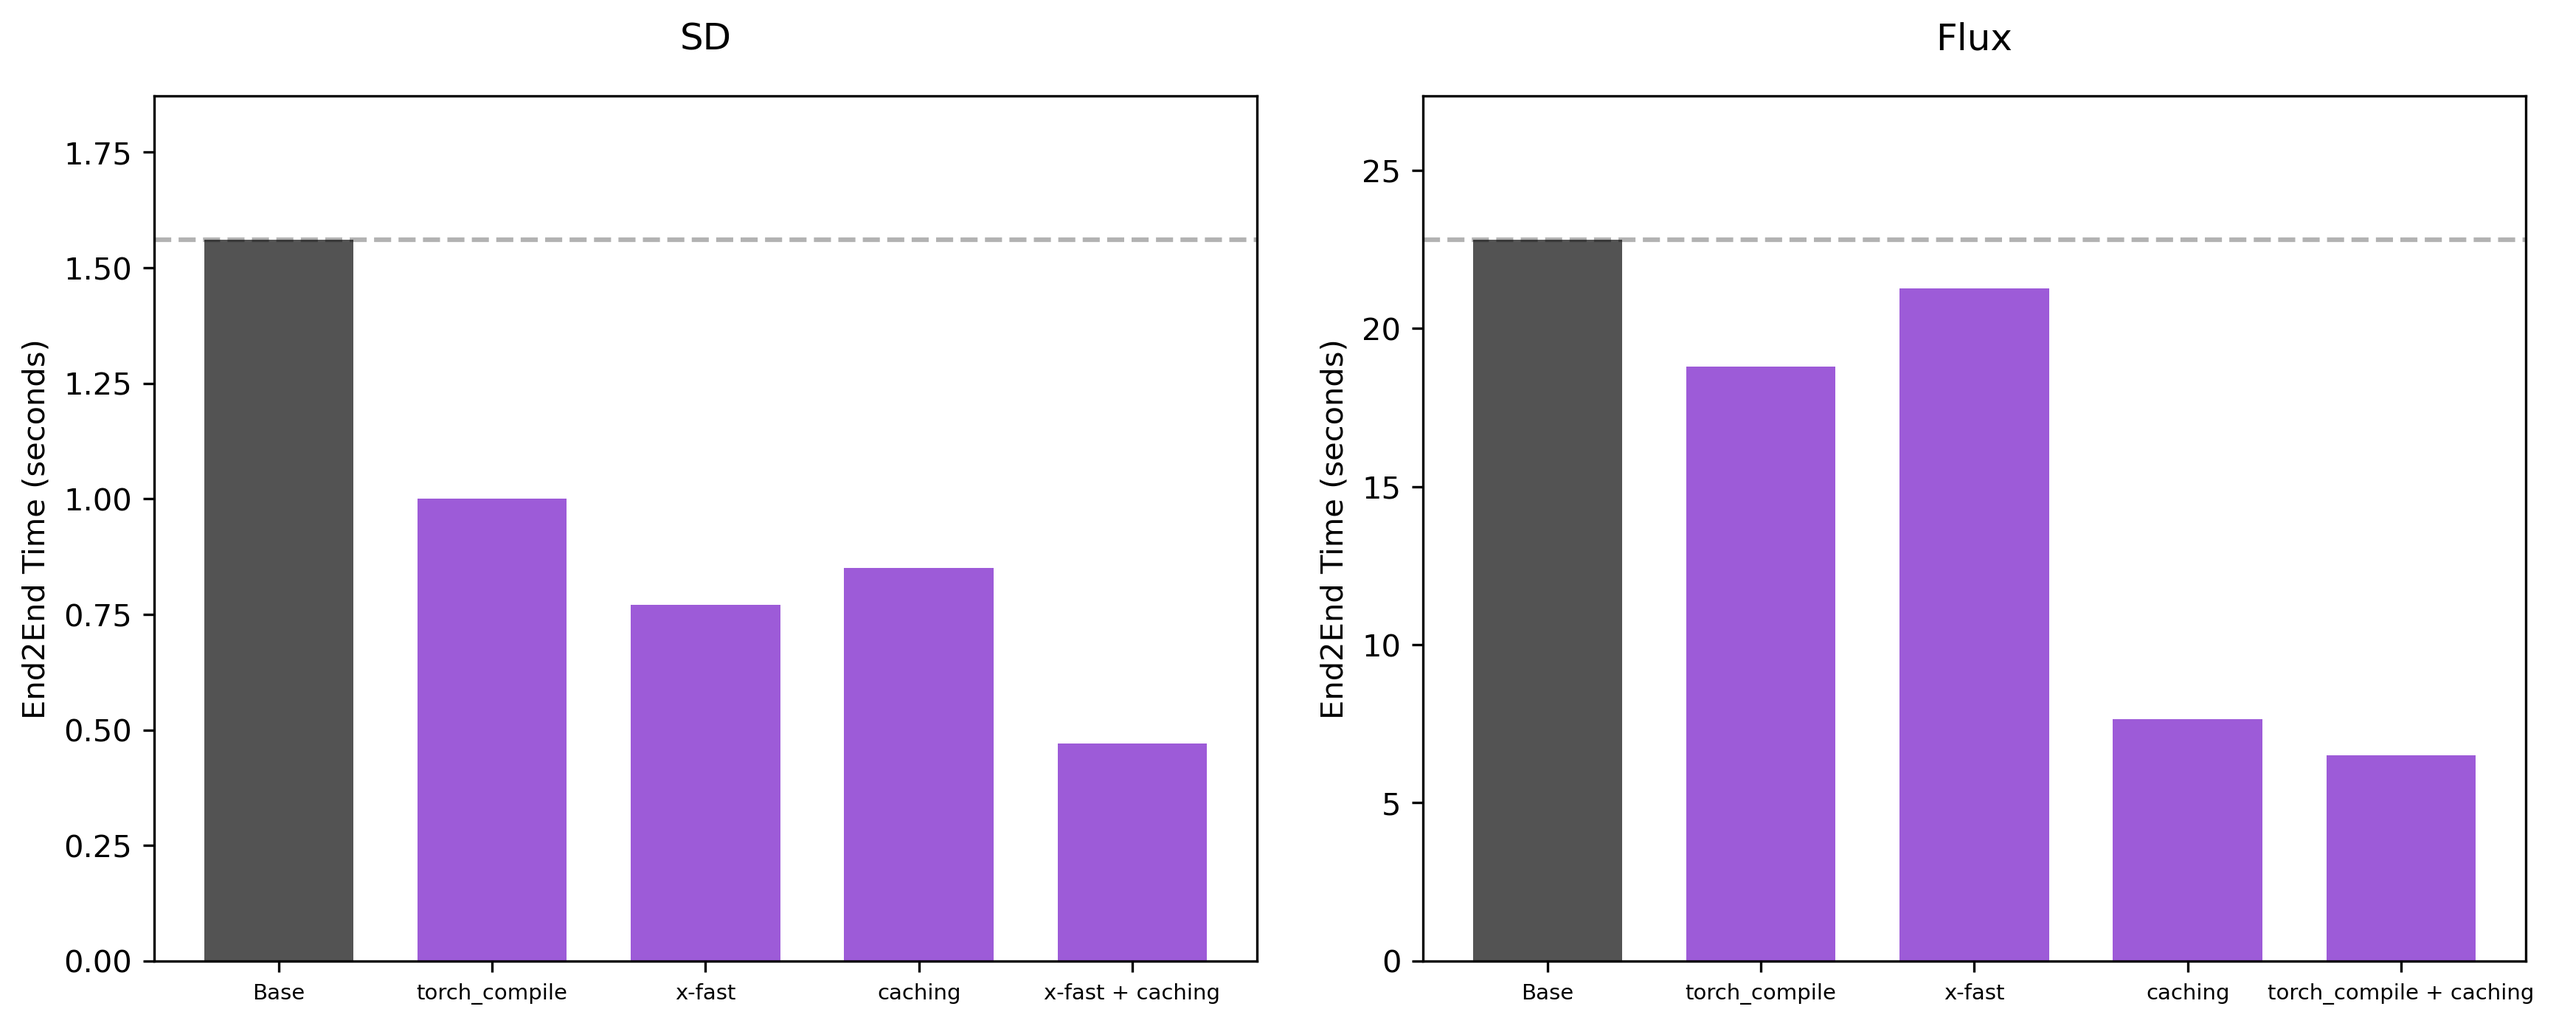
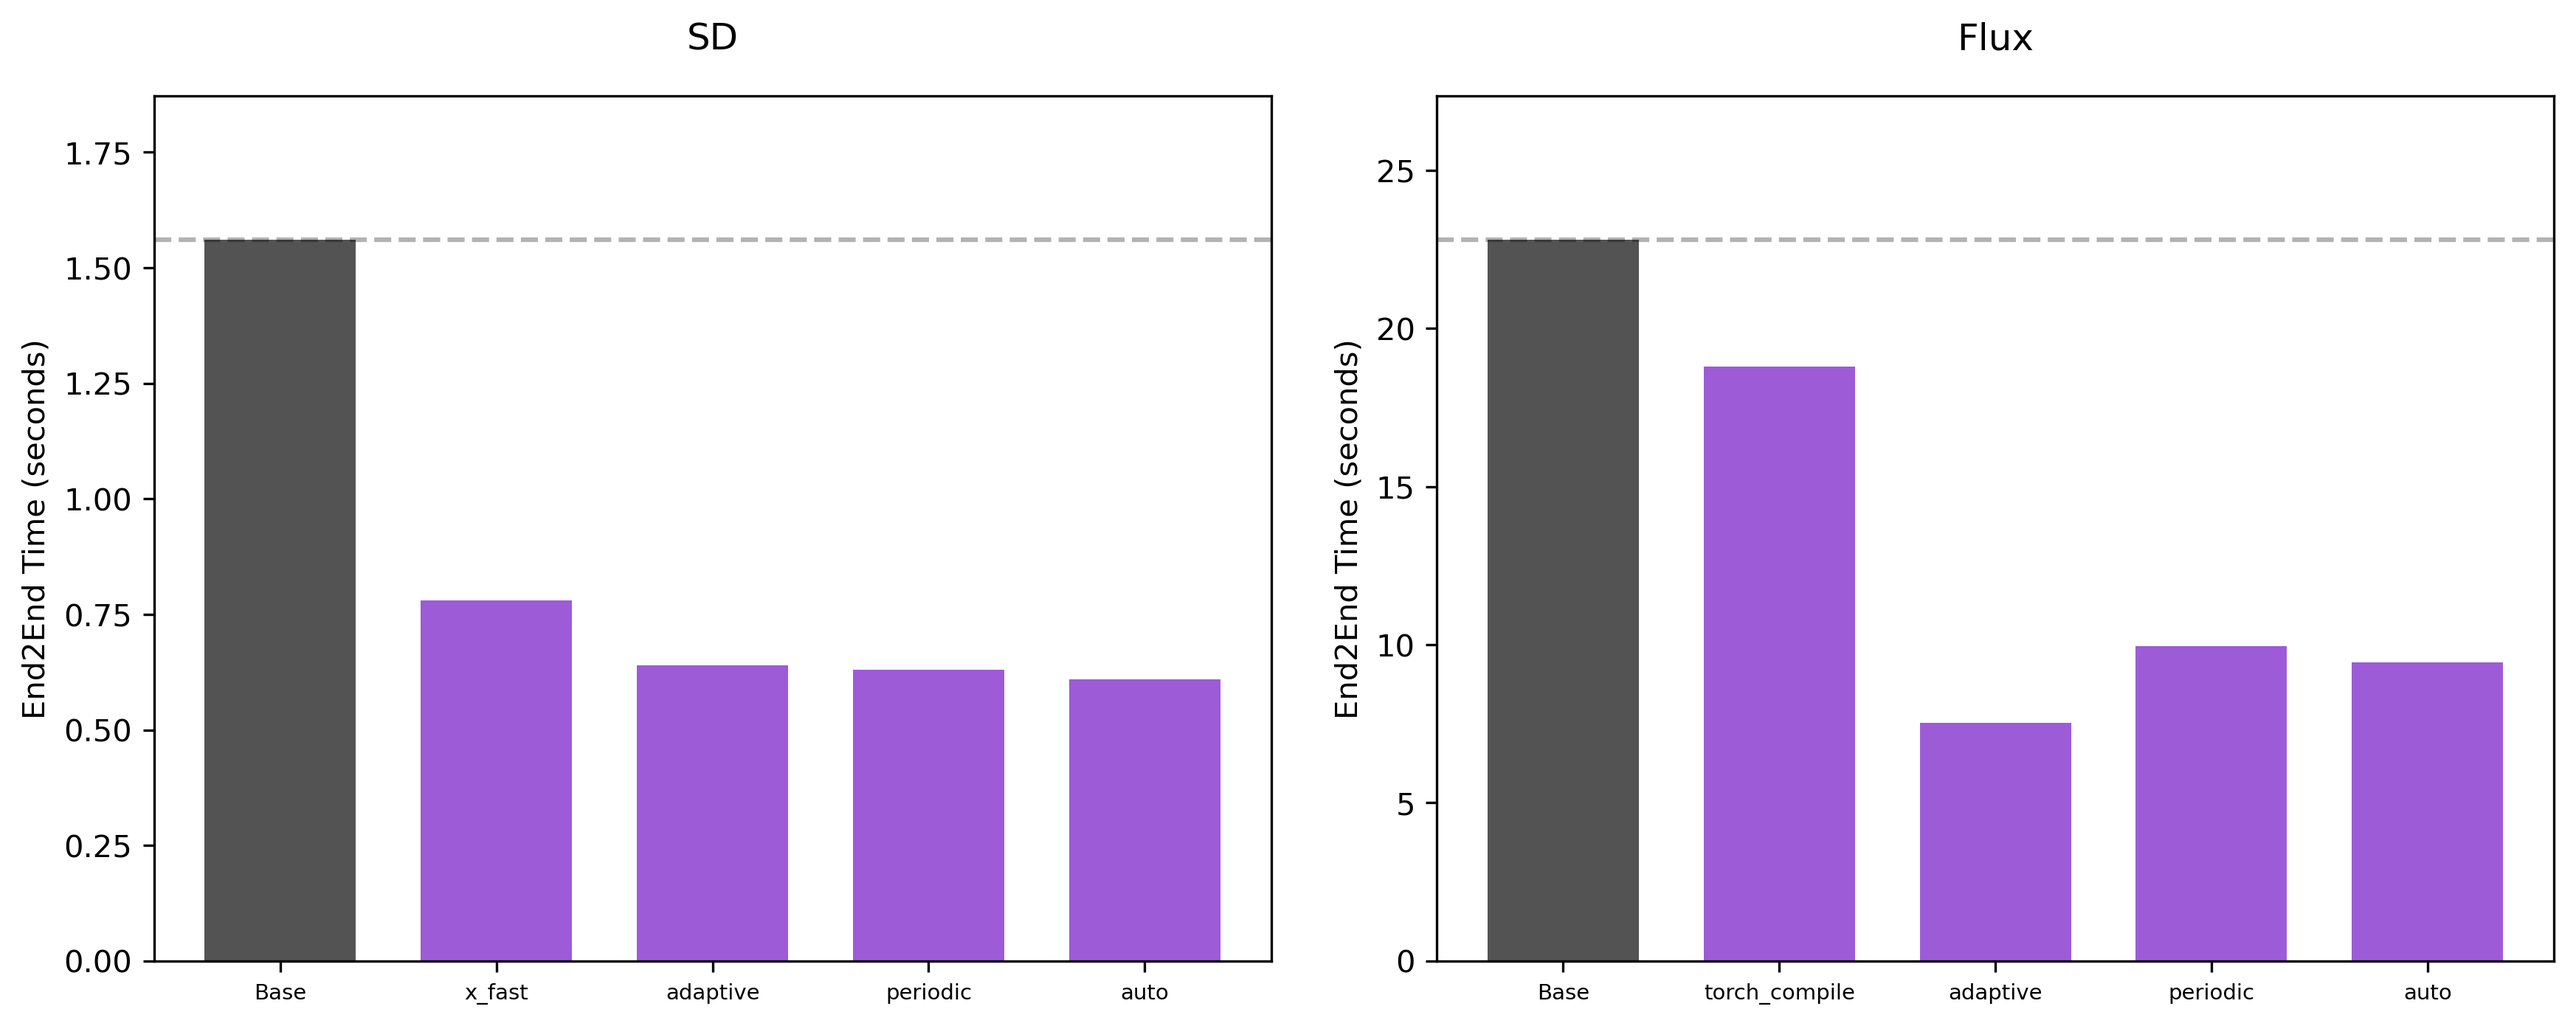
docs: update workflows,figures and performance metrics

diff --git a/cache_nodes.py b/cache_nodes.py
@@ -75,7 +75,7 @@ class CacheModelAdaptive(CacheModelMixin):
                     "STRING",
                     {
                         "default": "torch_compile",
-                        "options": ["torch_compile", "stable_fast", "none"],
+                        "options": ["torch_compile", "none"],
                     },
                 ),
             }
@@ -120,7 +120,7 @@ class CacheModelPeriodic(CacheModelMixin):
                     "STRING",
                     {
                         "default": "torch_compile",
-                        "options": ["torch_compile", "stable_fast", "none"],
+                        "options": ["torch_compile", "none"],
                     },
                 ),
             }
@@ -154,17 +154,17 @@ class CacheModelAuto(CacheModelMixin):
         return {
             "required": {
                 "model": ("MODEL",),
-                "compiler": (
-                    "STRING",
-                    {
-                        "default": "torch_compile",
-                        "options": ["torch_compile", "stable_fast", "none"],
-                    },
-                ),
                 "speed_factor": ("FLOAT", {"default": 0.5, "min": 0.0, "max": 1.0}),
                 "cache_mode": (
                     "STRING",
                     {"default": "default", "options": ["default", "taylor"]},
+                ),
+                "compiler": (
+                    "STRING",
+                    {
+                        "default": "torch_compile",
+                        "options": ["torch_compile", "none"],
+                    },
                 ),
             }
         }

diff --git a/README.md b/README.md
@@ -1,16 +1,17 @@
 # Pruna nodes for ComfyUI
 
 This repository explains how to accelerate image generation in ComfyUI using **Pruna**, an inference optimization engine that makes AI models **faster, smaller, cheaper, and greener**. ComfyUI is a popular node-based GUI for image generation models, for which we provide the following nodes:
-- a **compilation node**, that optimizes inference speed through model compilation. This does not compromise output quality at all, but it doesn't provide huge speedups.
-- **caching nodes** that smartly reuse intermediate computations to accelerate inference with minimal quality degradation. In particular, we provide three caching nodes, which use different caching strategies:
-    - [Adaptive Caching](https://docs.pruna.ai/en/stable/compression.html#adaptive-pro)
-    - [Periodic Caching](https://docs.pruna.ai/en/stable/compression.html#periodic-pro)
-    - [Auto Caching](https://docs.pruna.ai/en/stable/compression.html#auto-pro)
+- a **compilation node**, that optimizes inference speed through model compilation. While this technique fully preserves output quality, performance gains can vary depending on the model.
+- **Caching nodes** that smartly reuse intermediate computations to accelerate inference with minimal quality degradation. In particular, we provide three caching nodes, each one using a different caching strategy:
+    - [Adaptive Caching](https://docs.pruna.ai/en/stable/compression.html#adaptive-pro): Dynamically adjusts caching for each prompt by identifying the optimal inference steps to reuse cached outputs.
+    - [Periodic Caching](https://docs.pruna.ai/en/stable/compression.html#periodic-pro): Caches model outputs at fixed intervals, reusing them in subsequent steps to reduce computation.
+    - [Auto Caching](https://docs.pruna.ai/en/stable/compression.html#auto-pro): Automatically determines the optimal caching schedule to achieve a target latency reduction with minimal quality trade-off.
+  By adjusting the hyperparameters of these nodes, you can achieve the best trade-off between speed and output quality for your specific use case.
 
-All of them can be applied to **Stable Diffusion (SD)** and **Flux** models. 
+Our nodes support both **Stable Diffusion (SD)** and **Flux** models. 
 
 
-Here, you'll find:
+In this repository, you'll find:
 - [Installation and usage instructions](#installation)
 - [Representative workflows](#usage)
 - [Performance benchmarks](#performance)
@@ -18,6 +19,8 @@ Here, you'll find:
 ## Installation
 
 ### Prerequisites
+Currently, running our nodes requires a **Linux system with a GPU**. To setup your environment, follow the steps below: 
+
 1. Create a conda environment
 2. Install [ComfyUI](https://github.com/comfyanonymous/ComfyUI/?tab=readme-ov-file#installing)
 3. Install the latest version of [Pruna or Pruna Pro](https://docs.pruna.ai/en/stable/setup/pip.html): 
@@ -32,11 +35,11 @@ Here, you'll find:
   ```
 
 **To use Pruna Pro**, you also need to: 
-1. [Request a token](https://docs.pruna.ai/en/stable/setup/pip.html#installing-pruna-pro), and export it as an environment variable:
+1. Export your Pruna token as an environment variable:
 ```bash
 export PRUNA_TOKEN=<your_token_here>
 ```
-2. [*Optional*] If you want to use the `x-fast` or `stable-fast` compilers, you need to install additional dependencies:
+2. [*Optional*] If you want to use the the `x-fast` compiler, you need to install additional dependencies:
 ```bash
 pip install pruna[stable-fast]==0.2.2
 ``` 
@@ -61,8 +64,7 @@ cd <path_to_comfyui> && python main.py --disable-cuda-malloc --gpu-only
 The Pruna nodes will appear in the nodes menu in the `Pruna` category. 
 
 **Important note**: To use compilation (either in the `Pruna compile` node or in the caching nodes), you need to launch ComfyUI with the `--disable-cuda-malloc` flag; 
-otherwise the node may not function properly. For optimal performance, we also recommend setting the 
-`--gpu-only` flag. 
+otherwise the node may not function properly. For optimal performance, we also recommend setting the `--gpu-only` flag. 
 
 ## Usage 
 
@@ -135,20 +137,23 @@ We currently support two compilation modes: `x_fast` and `torch_compile`, with `
 
 #### Caching nodes
 
-We offer three caching nodes, which use different caching strategies. For more details on the caching algorithms, see the [Pruna documentation](https://docs.pruna.ai/en/stable/compression.html#adaptive-pro). Below, we summarize the hyperparameters for each node. Note that in each node, you can also specify the `compiler` parameter, which allows you to **apply compilation on top of caching**. Available options are `torch_compile`, `stable_fast`, and `none`.
+We offer three caching nodes, which use different caching strategies. For more details on the caching algorithms, see the [Pruna documentation](https://docs.pruna.ai/en/stable/compression.html#adaptive-pro). All caching nodes share two parameters: 
+
+- **`compiler`**: Which compiler to apply on top of caching, `torch_compile` or `none`. 
+- **`cache_mode`**: Which caching mode to use, `default` or `taylor`. `Default` reuses previous steps, while `taylor` uses a Taylor expansion for more accurate approximation. 
+
+In the following, we summarize the node-specific parameters.
 
 - **Adaptive Caching**: This node uses the `adaptive` algorithm, which allows you to adjust the `threshold` and `max_skip_steps` parameters:
   - **`threshold`**: How much the difference between the current and previous latent can be before caching. Higher is faster, but reduces quality. Acceptable values range from `0.001` to `0.2`. Default value: `0.01`. 
   - **`max_skip_steps`**: How many steps are allowed to be skipped in a row. Higher is faster, but reduces quality. Acceptable values range from `1` to `5`. Default value: `4`. 
   
-- **Periodic Caching**: This node uses the `periodic` algorithm, which allows you to adjust the `cache_interval`, `start_step`, `cache_mode`, and `compiler` parameters:
-  - **`cache_interval`**: How many model steps to skip in a row. Higher is faster, but reduces quality. Acceptable values range from `1` to `7`. Default value: `2`. 
+- **Periodic Caching**: This node uses the `periodic` algorithm, which allows you to adjust the `cache_interval` and `start_step` parameters:
+  - **`cache_interval`**: Specifies how often to compute and cache the model output. Acceptable values range from `1` to `7`. Default value: `2`. 
   - **`start_step`**: How many steps to wait before starting to cache. Acceptable values range from `0` to `10`. Default value: `2`. 
-  - **`cache_mode`**: Which caching mode to use, `default` or `taylor`. `Default` reuses previous steps, while `taylor` uses a Taylor expansion for more accurate approximation. 
   
-- **Auto Caching**: This node uses the `auto` algorithm, which allows you to adjust the `speed_factor` and `cache_mode` parameters:
+- **Auto Caching**: This node uses the `auto` algorithm, which allows you to adjust the `speed_factor` parameter:
   - **`speed_factor`**: Controls inference latency. Lower values yield faster inference but may compromise quality. Acceptable values range from `0.0` to `1.0`. Default value: `0.5`. 
-  - **`cache_mode`**: Which caching mode to use, `default` or `taylor`. `Default` reuses previous steps, while `taylor` uses a Taylor expansion for more accurate approximation. 
   
 > **Note**: Caching and `x_fast` compilation require access to the Pruna Pro version.
 
@@ -166,16 +171,15 @@ using 28 steps. We compare the iterations per second (as reported by `ComfyUI`) 
 ![Performance](./images/its_comparison_50.png)
 ![Performance](./images/end2end_time_comparison_50.png)
 
-**Hyperparameters**: For caching, we use the default hyperparameters, which are `threshold = 0.01` and `max_skip_steps = 4`.
 
 ### 28 steps 
 
 ![Performance](./images/its_comparison_28.png)
 ![Performance](./images/end2end_time_comparison_28.png)
 
-**Hyperparameters**: For the SD model, when the number of denoising steps is small, the caching node with the 
-default hyperparameters tends to not provide substantial speedups. For that reason, here, only for 
-the SD model, we set the threshold to `0.02`. 
+**Hyperparameters**: For caching, we used the `taylor` mode and the `torch_compile` compiler, along with the default hyperparameters. 
+
+Note that for Stable Diffusion models, `x_fast` typically delivers better performance than `torch_compile`, whereas for Flux models, `torch_compile` tends to outperform `x_fast`. 
 
 
 ## Contact
